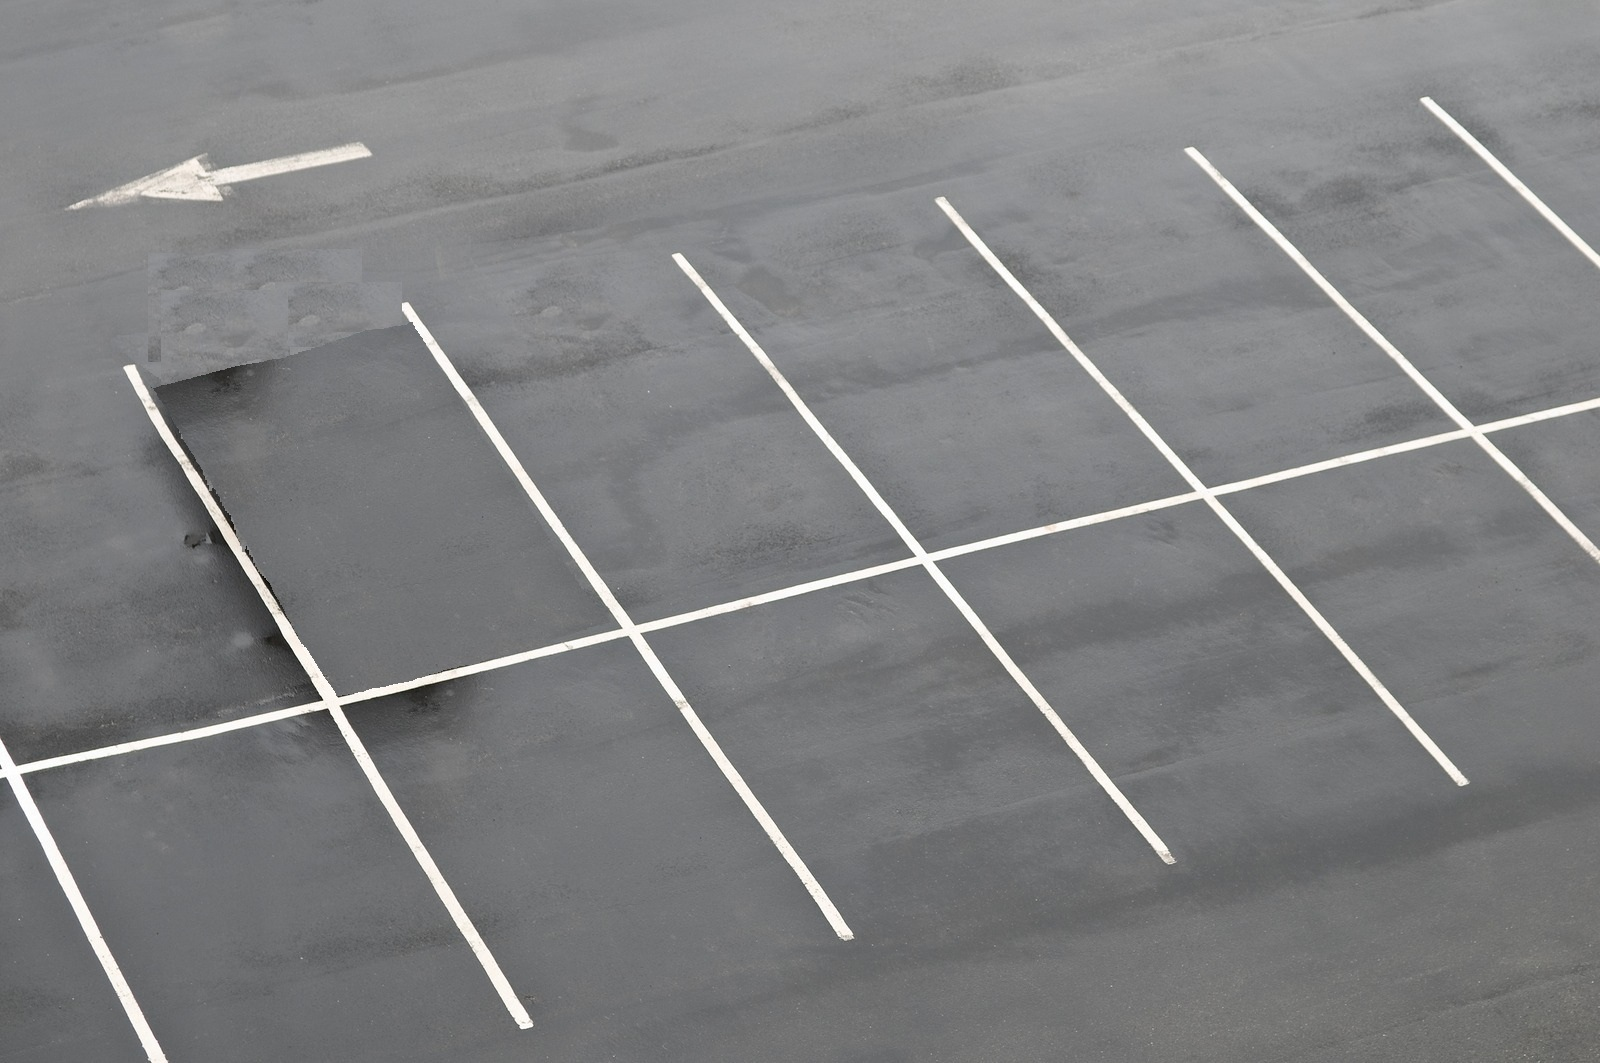
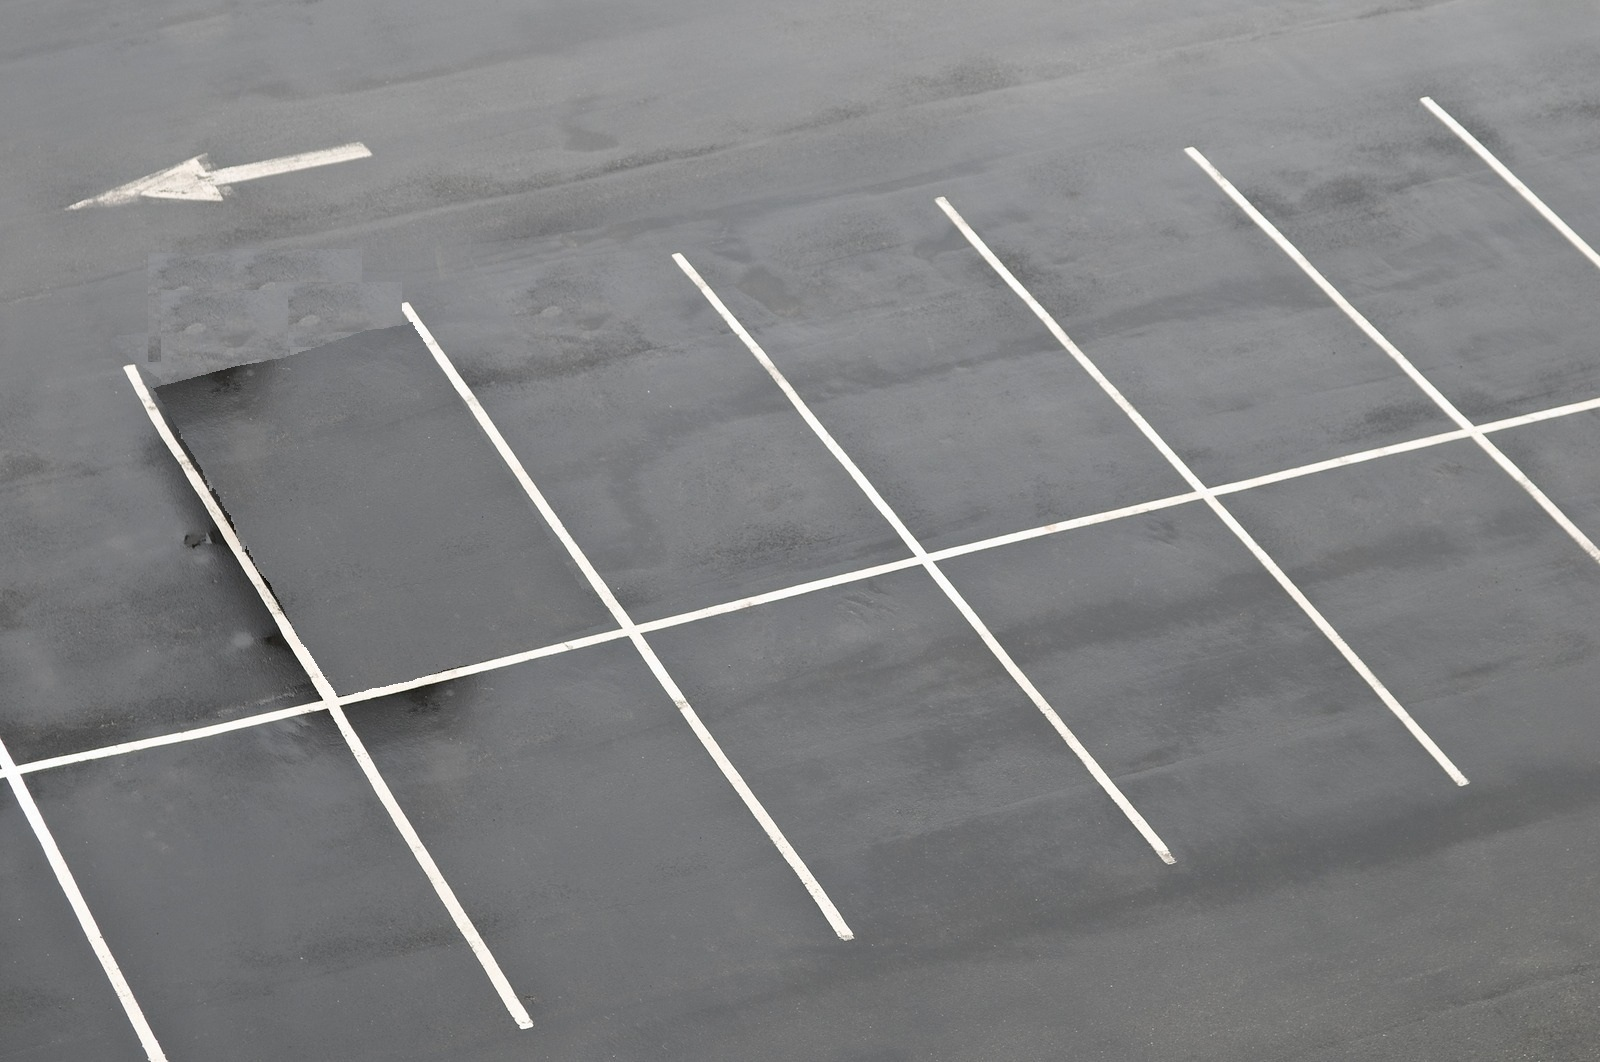
begin work on init_lot endpoint

diff --git a/backend/routers/lot_init.py b/backend/routers/lot_init.py
@@ -1,4 +1,7 @@
+import cv2
 from fastapi import APIRouter
+from pydantic import BaseModel
+from analysis.rolling_analysis import lot_maps
 
 router = APIRouter()
 
@@ -6,6 +9,46 @@ router = APIRouter()
 #           PYDANTIC MODELS            #
 ########################################
 
+class NewLot(BaseModel):
+    lot_name: str
+    lot_feed_source: str    # source should be a rtsp stream
+                            # ex. rtsp://192.168.1.1:22/stream
+
+class LotInitResponse(BaseModel):
+    status: str
+    message: str | None
+
 ########################################
 #             FUNCTIONS                #
 ########################################
+
+'''
+Initialize a new lot
+'''
+@router.post('/lot-init', response_model=LotInitResponse)
+async def init_lot(lot: NewLot):
+    
+    status = 'success'
+    message = None
+
+    # confirm lot does not already exist
+    if lot.lot_name in lot_maps:
+        status = 'failure'
+        message = 'lot name already exists'
+    
+    # attempt to open rtsp connection; taking snapshot
+    # of the empty lot
+    stream = cv2.VideoCapture(lot.lot_feed_source)
+
+    if not stream.isOpened():
+        status = 'failure'
+        message = 'rtsp link could not be established'
+    else:
+        success, ss = stream.read()
+        if not success:
+            status = 'failure'
+            message = ('rtsp link reached but screenshot could not' +
+                       'be produced')
+
+    return {'status': status,
+            'message': message}

diff --git a/backend/analysis/rolling_analysis.py b/backend/analysis/rolling_analysis.py
@@ -2,7 +2,7 @@ import cv2, numpy
 from analysis.space_detection import define_spots, detect_fullness
 
 img_w = 800
-img_h = 445
+img_h = 444
 
 TEST_E_IMG = cv2.imread('.\images\diag_PL2.jpg', 1)
 TEST_E_IMG = cv2.resize(TEST_E_IMG, (img_w, img_h))
@@ -40,6 +40,8 @@ def show_detection_as_image():
     empty_lot = cv2.resize(empty_lot, (img_w, img_h))
     live_lot = cv2.resize(live_lot, (img_w, img_h))
 
+    cv2.imshow('Analysis', empty_lot)
+
     # identify spots from the empty lot image
     spots = define_spots(empty_lot)   # NOTE: EVENTUALLY WILL NEED TO PASS IMG HERE
 
@@ -71,7 +73,7 @@ def show_detection_as_image():
     j = 0
     for spot_row in spots:
         for spot in spot_row:
-            if spot_occupancy[i][j] == 1:
+            if spot_occupancy[i][j]['occupied']:
                 cv2.fillPoly(analysis_img, [numpy.array(spot)], (0, 255, 0))
             else:
                 cv2.fillPoly(analysis_img, [numpy.array(spot)], (0, 0, 255))
